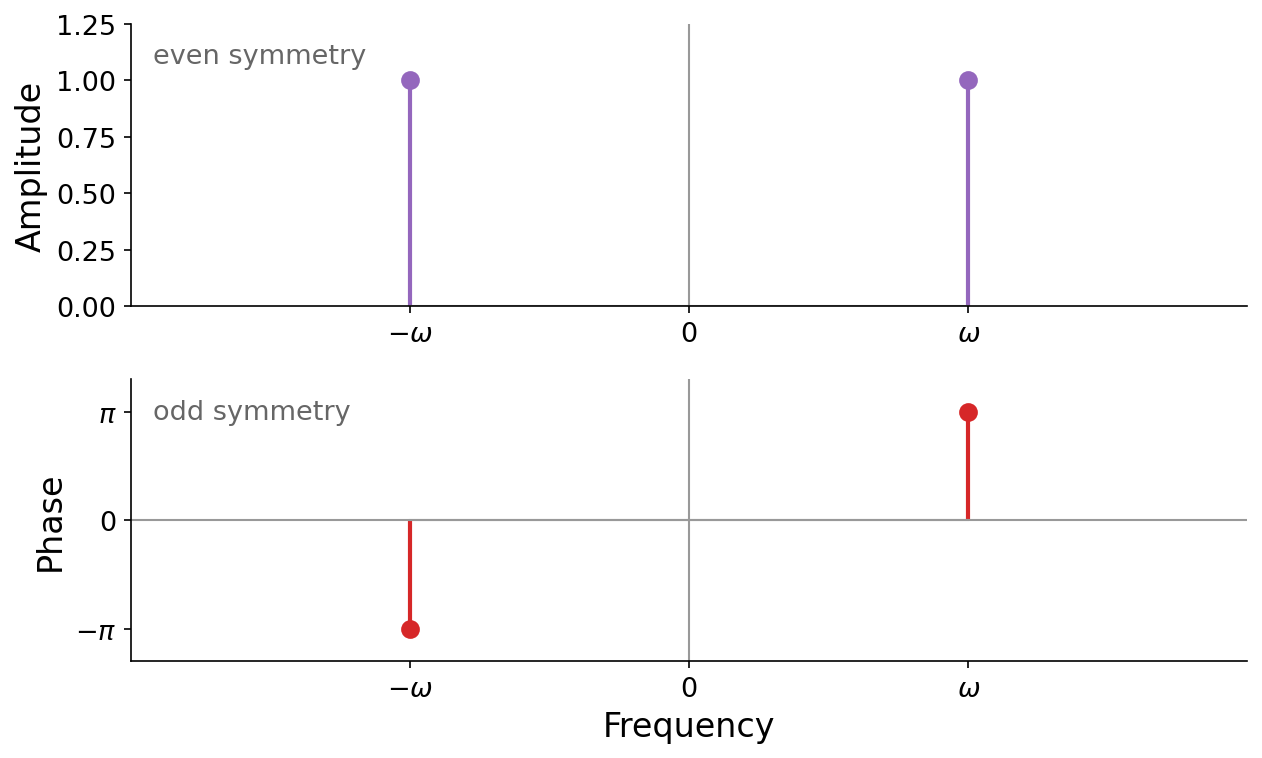
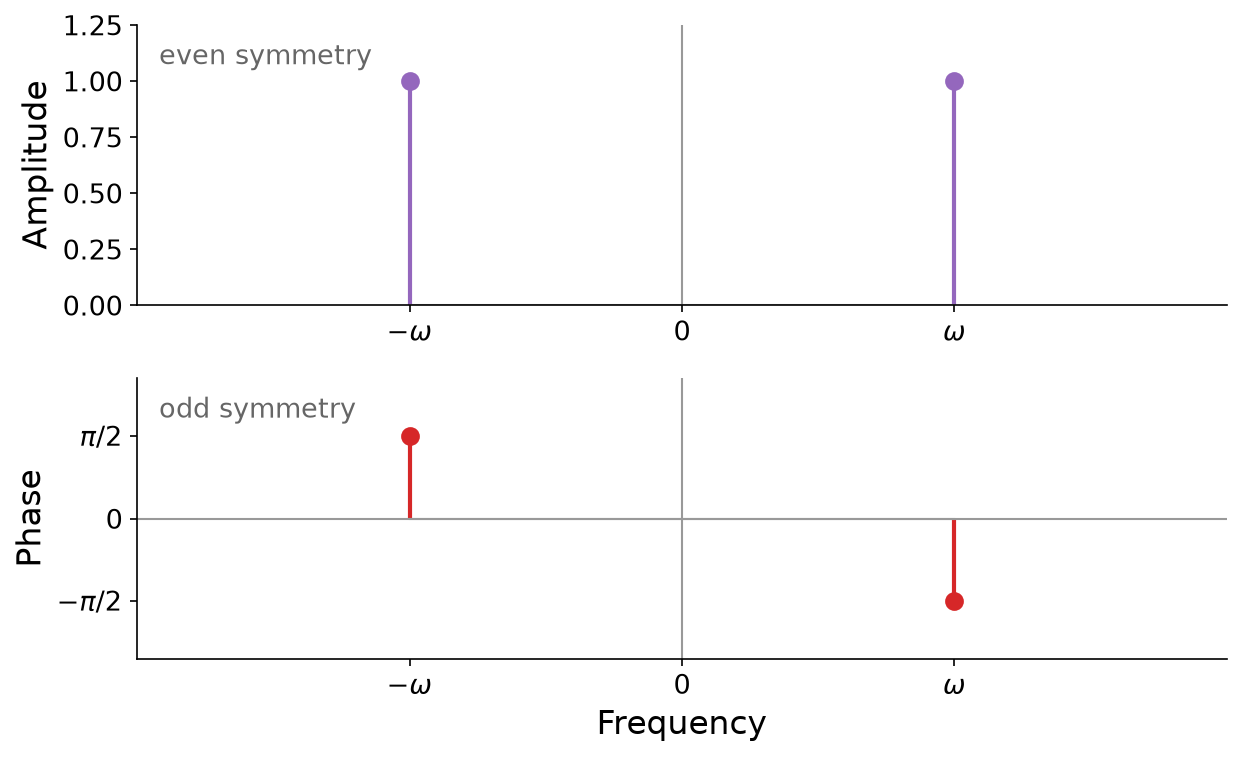
Subtle fix

diff --git a/06-modulation/figures/make_figures.py b/06-modulation/figures/make_figures.py
@@ -203,16 +203,18 @@ def fig_negative_symmetry() -> None:
     ax_a.annotate("even symmetry", xy=(0.02, 0.86), xycoords="axes fraction",
                   fontsize=13, color="0.4")
 
-    # phase spectrum: odd
-    stem(ax_p, [-w, w], [-np.pi, np.pi], COLORS[3])
+    # phase spectrum: odd. A real sine has phase -pi/2 at +omega and +pi/2 at
+    # -omega (from the angles of its two complex-exponential halves), so the
+    # spike points DOWN on the right and UP on the left -- the odd sign flip.
+    stem(ax_p, [-w, w], [np.pi / 2, -np.pi / 2], COLORS[3])
     ax_p.axhline(0, color="0.6", linewidth=1.0)
     ax_p.axvline(0, color="0.6", linewidth=1.0)
     ax_p.set_ylabel("Phase")
     ax_p.set_xlabel("Frequency")
-    ax_p.set_ylim(-np.pi * 1.3, np.pi * 1.3)
+    ax_p.set_ylim(-np.pi * 0.85, np.pi * 0.85)
     ax_p.set_xlim(-2.0, 2.0)
-    ax_p.set_yticks([-np.pi, 0, np.pi])
-    ax_p.set_yticklabels([r"$-\pi$", "0", r"$\pi$"])
+    ax_p.set_yticks([-np.pi / 2, 0, np.pi / 2])
+    ax_p.set_yticklabels([r"$-\pi/2$", "0", r"$\pi/2$"])
     ax_p.set_xticks([-w, 0, w])
     ax_p.set_xticklabels([r"$-\omega$", "0", r"$\omega$"])
     ax_p.annotate("odd symmetry", xy=(0.02, 0.86), xycoords="axes fraction",

diff --git a/06-modulation/index.md b/06-modulation/index.md
@@ -165,12 +165,12 @@ A negative-frequency cosine is _identical_ to its positive twin. A negative-freq
 Positive and negative frequencies compared. For the cosine, $\cos(-\omega t) = \cos(\omega t)$ holds exactly, so those two clips are not merely audibly but _mathematically_ identical. For the sine, $\sin(-\omega t) = -\sin(\omega t) = \sin(\omega t + \pi)$, so the two clips differ by a $\pi$ phase shift, yet sound identical. Either way, negative frequencies are an audible, physical reality of sound, not just an analytical device like the imaginary unit $j$ in the {ref}`phasor <sec-phasor>` of Chapter 5.
 :::
 
-We can package this symmetry in terms of the amplitude and phase spectra from [Chapter 5](../05-frequency-domain). Because a negative frequency carries the same amplitude as its positive twin but the opposite phase, the amplitude spectrum of any real signal is **even** (symmetric about zero), and the phase spectrum is **odd** (antisymmetric):
+We can package this symmetry in terms of the amplitude and phase spectra from [Chapter 5](../05-frequency-domain). As a general property of the Fourier transform, the amplitude spectrum of any real signal is **even** (symmetric about zero), and its phase spectrum is **odd** (antisymmetric):
 
 $$|X(-\omega)| = |X(\omega)|, \qquad \angle X(-\omega) = -\angle X(\omega).$$
 
 :::{figure}
-![Two stacked stem plots. The top shows an amplitude spectrum with equal-height spikes at plus and minus omega (even symmetry). The bottom shows a phase spectrum with a spike at plus pi for positive omega and minus pi for negative omega (odd symmetry).](./assets/fig-negative-symmetry.png)
+![Two stacked stem plots. The top shows an amplitude spectrum with equal-height spikes at minus and plus omega (even symmetry). The bottom shows a phase spectrum with a downward spike to minus pi-over-two at positive omega and an upward spike to plus pi-over-two at negative omega (odd symmetry).](./assets/fig-negative-symmetry.png)
 
 The spectra of a real sinusoid are symmetric about zero frequency. The amplitude spectrum (top) is even, and the phase spectrum (bottom) is odd. This is why every positive frequency is mirrored by a negative one.
 :::
